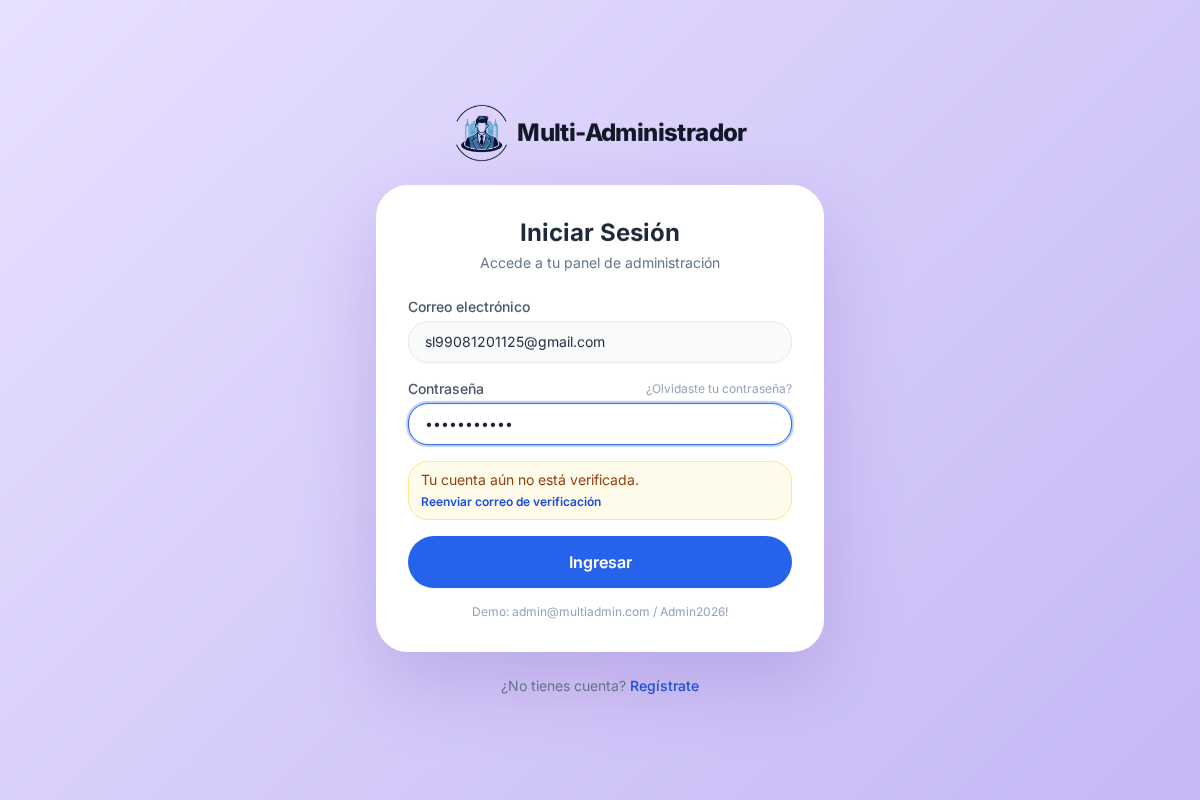
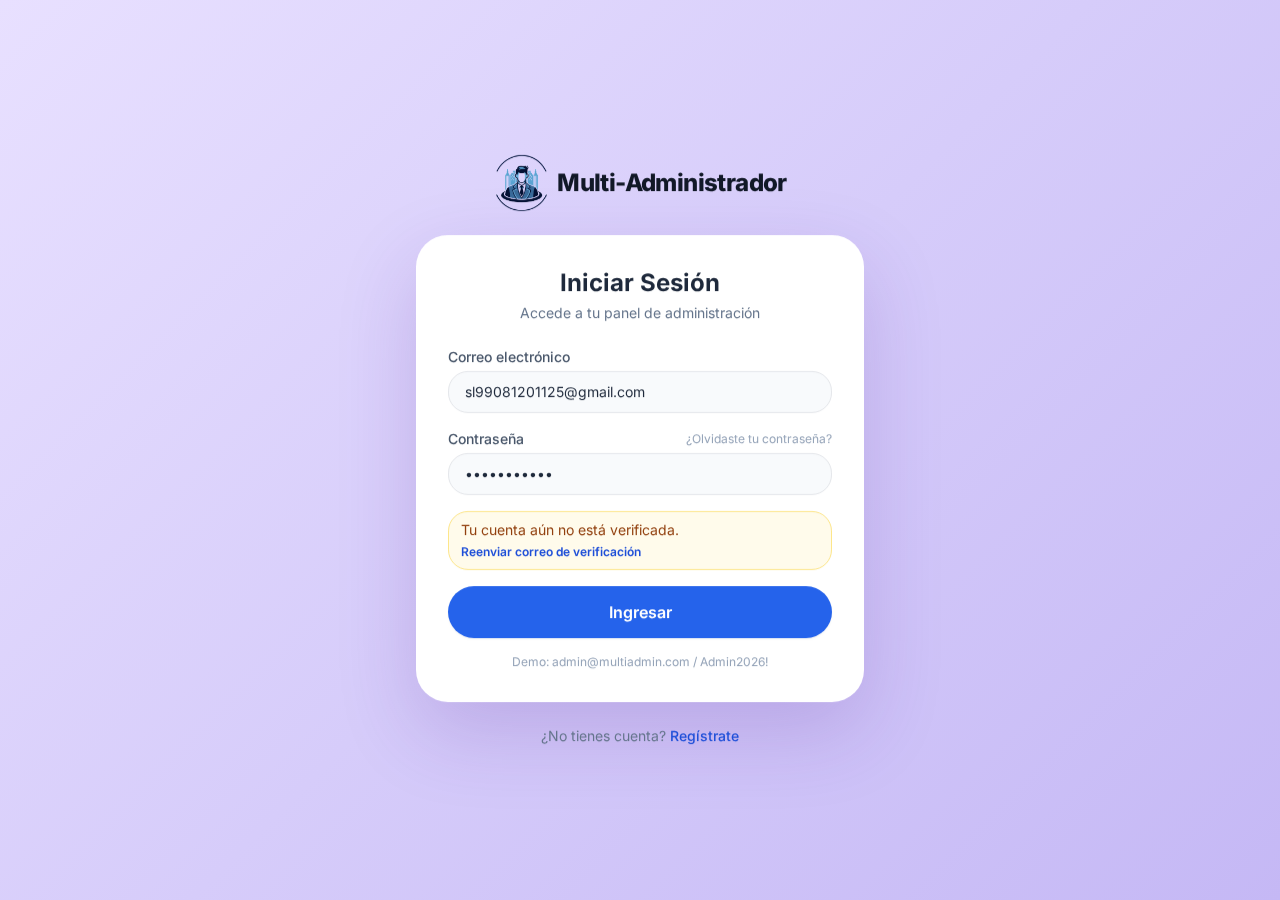
verificacion: enlace idempotente (reabrir = ok), sin doble llamada en StrictMode; capturas flujo real

Changed region(s): [[0.3083, 0.125, 0.7092, 0.875]]

diff --git a/frontend/src/pages/VerificarCorreo.tsx b/frontend/src/pages/VerificarCorreo.tsx
@@ -1,4 +1,4 @@
-import { useEffect, useState, type FormEvent } from "react";
+import { useEffect, useRef, useState, type FormEvent } from "react";
 import { Link, useParams } from "react-router-dom";
 import { Loader2, MailCheck, MailWarning } from "lucide-react";
 import AuthShell from "@/components/ui/AuthShell";
@@ -16,7 +16,11 @@ export default function VerificarCorreo() {
   const [reenviado, setReenviado] = useState("");
   const [enviando, setEnviando] = useState(false);
 
+  const verificado = useRef<string | null>(null);
+
   useEffect(() => {
+    if (!token || verificado.current === token) return; // evita la doble llamada de StrictMode
+    verificado.current = token;
     api
       .get<{ ok: boolean; estado: Estado; mensaje: string }>(`/verificar-correo/${token}`)
       .then((r) => { setEstado(r.estado); setMensaje(r.mensaje); })

diff --git a/backend/app/crud.py b/backend/app/crud.py
@@ -151,14 +151,19 @@ async def enviar_verificacion(db: Session, usuario: Usuario) -> dict:
 
 def verificar_correo(db: Session, token: str) -> str:
     """Devuelve 'ok', 'expirado' o 'invalido'."""
+    if not token:
+        return "invalido"
     usuario = db.query(Usuario).filter(Usuario.token_verificacion == token).first()
     if not usuario:
         return "invalido"
+    # Idempotente: si el enlace ya se usó (doble clic, StrictMode, escáner de enlaces
+    # del proveedor de correo), se responde 'ok' en lugar de 'invalido'.
+    if usuario.correo_verificado:
+        return "ok"
     if usuario.expira_verificacion and usuario.expira_verificacion < datetime.utcnow():
         return "expirado"
     usuario.correo_verificado = True
-    usuario.token_verificacion = None
-    usuario.expira_verificacion = None
+    # El token se conserva (ya no otorga nada nuevo) para que reabrir el enlace siga mostrando 'ok'.
     db.commit()
     return "ok"
 

diff --git a/backend/tests/test_rbac.py b/backend/tests/test_rbac.py
@@ -384,11 +384,11 @@ def test_registro_publico_requiere_verificar_correo():
     # Token inválido → no verifica
     assert c.get("/verificar-correo/token-falso").json()["estado"] == "invalido"
 
-    # Token real → verifica y ya puede entrar; el token se consume
+    # Token real → verifica y ya puede entrar; reabrir el enlace sigue siendo 'ok' (idempotente)
     tok = _token_de(correo, "token_verificacion")
     assert tok
     assert c.get(f"/verificar-correo/{tok}").json()["estado"] == "ok"
-    assert c.get(f"/verificar-correo/{tok}").json()["estado"] == "invalido"
+    assert c.get(f"/verificar-correo/{tok}").json()["estado"] == "ok"
     lg = c.post("/login", json={"correo": correo, "password": "Prueba2026!"}).json()
     assert lg["ok"] is True and lg["usuario"]["correo_verificado"] is True
 
